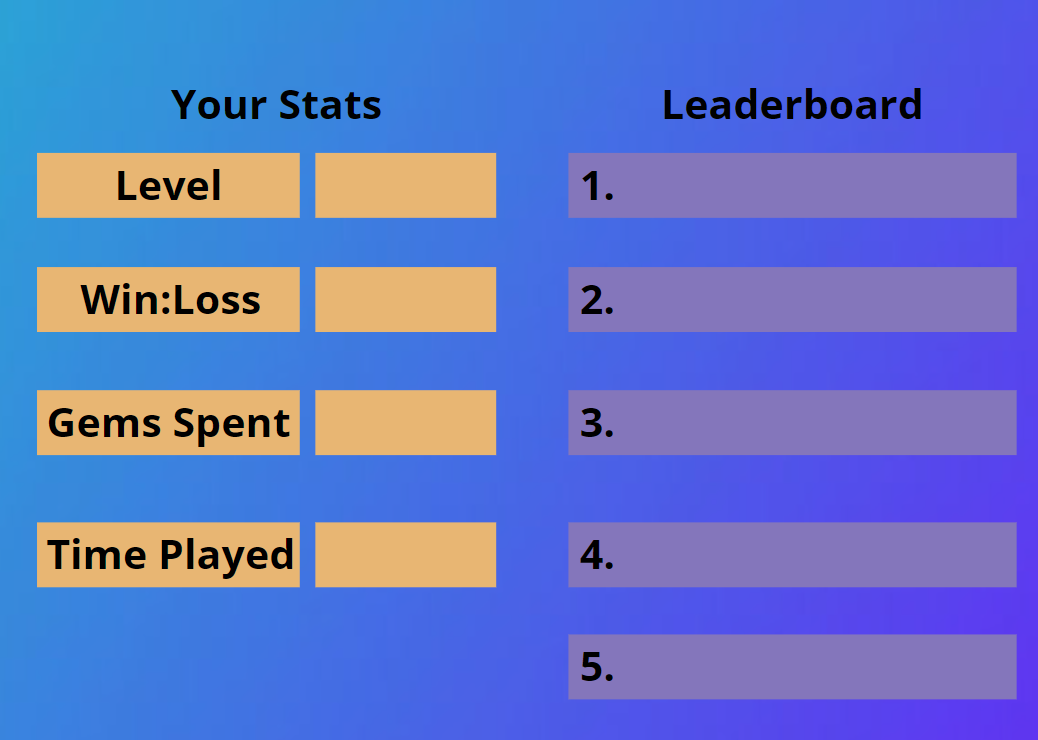
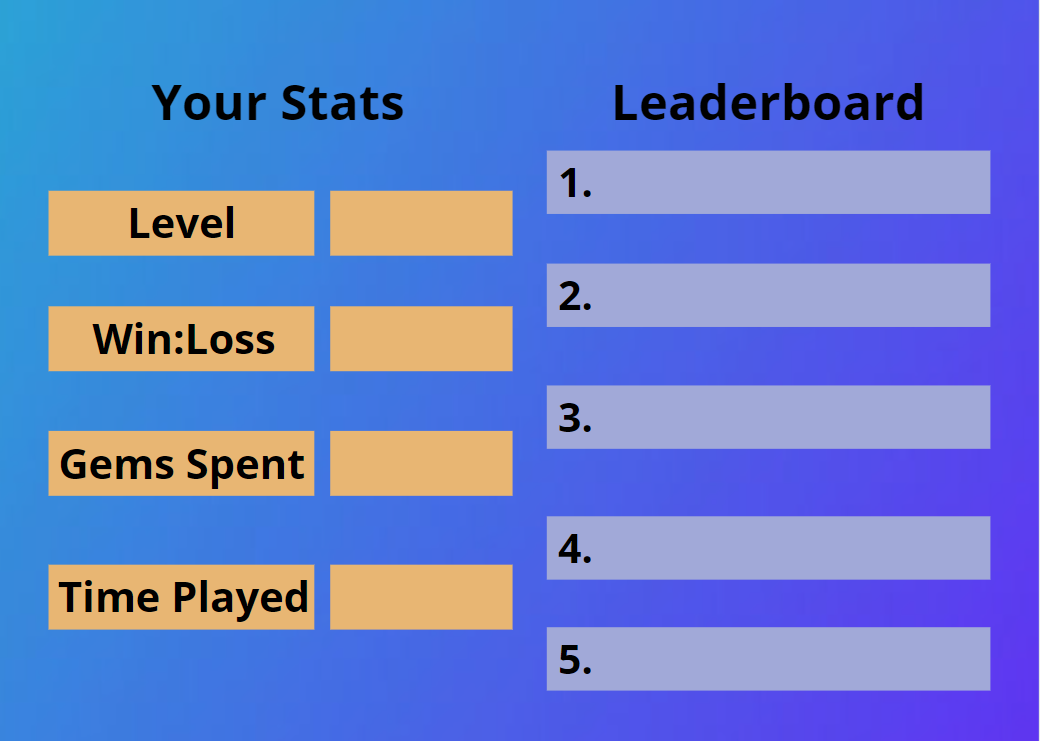
Fixed misalignment on stats page

diff --git a/ICS4U1-FinalProject/Stats.java b/ICS4U1-FinalProject/Stats.java
@@ -38,7 +38,7 @@ public class Stats extends World
         // Create a new world with 600x400 cells with a cell size of 1x1 pixels.
         super(900, 600, 1);
         
-        background = new GreenfootImage("Stats.PNG");
+        background = new GreenfootImage("MyStatsBackground.PNG");
         background.scale(getWidth(), getHeight());
         setBackground(background);
         
@@ -68,34 +68,34 @@ public class Stats extends World
         // Leaderboard
         
         firstPlaceLabel = new SuperTextBox("TestUsername123", transparent, Color.BLUE, font, false, 20*10, 0, transparent);
-        addObject(firstPlaceLabel, 608, 149);
+        addObject(firstPlaceLabel, 626, 153);
         
         secondPlaceLabel = new SuperTextBox("TestUsername123", transparent, Color.BLUE, font, false, 20*10, 0, transparent);
-        addObject(secondPlaceLabel, 608, 241);
+        addObject(secondPlaceLabel, 626, 245);
         
         thirdPlaceLabel = new SuperTextBox("TestUsername123", transparent, Color.BLUE, font, false, 20*10, 0, transparent);
-        addObject(thirdPlaceLabel, 608, 343);
+        addObject(thirdPlaceLabel, 626, 345);
         
         fourthPlaceLabel = new SuperTextBox("TestUsername123", transparent, Color.BLUE, font, false, 20*10, 0, transparent);
-        addObject(fourthPlaceLabel, 608, 450);
+        addObject(fourthPlaceLabel, 626, 452);
         
         fifthPlaceLabel = new SuperTextBox("TestUsername123", transparent, Color.BLUE, font, false, 20*10, 0, transparent);
-        addObject(fifthPlaceLabel, 608, 541);
+        addObject(fifthPlaceLabel, 626, 543);
         
         firstPlaceLevelLabel = new SuperTextBox("Lvl " + "5", transparent, Color.BLACK, font, false, 20*10, 0, transparent);
-        addObject(firstPlaceLevelLabel, 826, 149);
+        addObject(firstPlaceLevelLabel, 884, 153);
         
         secondPlaceLevelLabel = new SuperTextBox("Lvl " + "5", transparent, Color.BLACK, font, false, 20*10, 0, transparent);
-        addObject(secondPlaceLevelLabel, 826, 241);
+        addObject(secondPlaceLevelLabel, 884, 245);
         
         thirdPlaceLevelLabel = new SuperTextBox("Lvl " + "5", transparent, Color.BLACK, font, false, 20*10, 0, transparent);
-        addObject(thirdPlaceLevelLabel, 816, 343);
+        addObject(thirdPlaceLevelLabel, 884, 345);
                 
         fourthPlaceLevelLabel = new SuperTextBox("Lvl " + "5", transparent, Color.BLACK, font, false, 20*10, 0, transparent);
-        addObject(fourthPlaceLevelLabel, 826, 450);
+        addObject(fourthPlaceLevelLabel, 884, 452);
                 
         fifthPlaceLevelLabel = new SuperTextBox("Lvl " + "5", transparent, Color.BLACK, font, false, 20*10, 0, transparent);
-        addObject(fifthPlaceLevelLabel, 826, 541);
+        addObject(fifthPlaceLevelLabel, 884, 543);
     }
     public void act(){
         checkClick();
